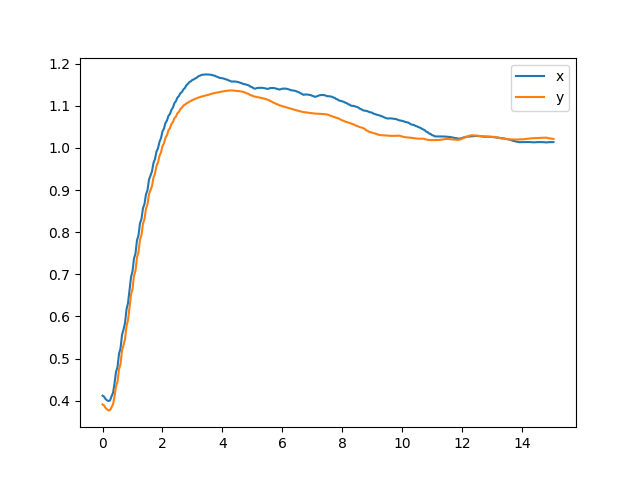
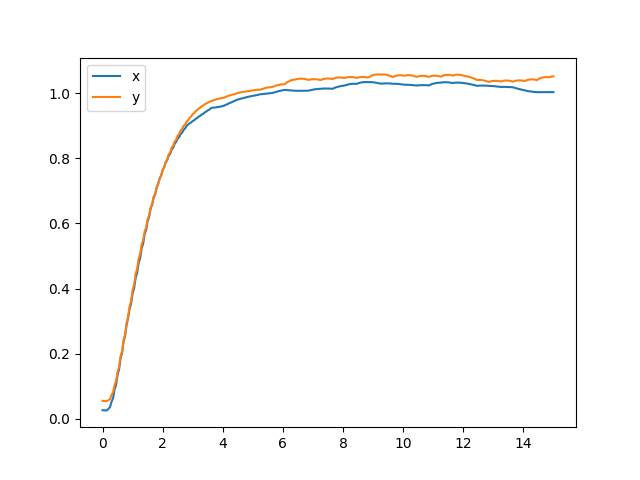
1122

diff --git a/offboard/src/offb_node_vel.py b/offboard/src/offb_node_vel.py
@@ -8,14 +8,22 @@
 
 import rospy
 import time
-from geometry_msgs.msg import PoseStamped
+from geometry_msgs.msg import PoseStamped, TwistStamped
 from mavros_msgs.msg import State, xyz
 from mavros_msgs.srv import CommandBool, CommandBoolRequest, SetMode, SetModeRequest
 from std_msgs.msg import Bool
 import matplotlib.pyplot as plt
+import numpy as np
+
+p = 3
+d = 1000
+ex = [0]
+ey = [0]
+ez = [2]
 
 current_state = State()
 cpose = PoseStamped()
+twist = TwistStamped()
 x = 0
 y = 0
 z = 2
@@ -39,6 +47,7 @@ if __name__ == "__main__":
     state_sub = rospy.Subscriber("mavros/state", State, callback = state_cb)
     cp_sub = rospy.Subscriber("/pp/checkpoint", xyz, callback = cp_cb)
     arrived_pub = rospy.Publisher("/pp/cp_arr", Bool, queue_size=1)
+    vel_pub = rospy.Publisher("mavros/setpoint_velocity/cmd_vel", TwistStamped, queue_size=1)
     local_pos_pub = rospy.Publisher("mavros/setpoint_position/local", PoseStamped, queue_size=10)
     local_pos_sub = rospy.Subscriber("/mavros/local_position/pose", PoseStamped, cxyz_cb)
     rospy.wait_for_service("/mavros/cmd/arming")
@@ -87,9 +96,9 @@ if __name__ == "__main__":
                 last_req = rospy.Time.now()
                 start = time.time()
                 traj = [[],[],[],[]]
-        pose.pose.position.x = x
-        pose.pose.position.y = y
-        pose.pose.position.z = z
+        pose.pose.position.x = 0
+        pose.pose.position.y = 0
+        pose.pose.position.z = 2
         local_pos_pub.publish(pose)
         x0 = cpose.pose.position.x
         y0 = cpose.pose.position.y
@@ -99,7 +108,31 @@ if __name__ == "__main__":
         traj[2].append(z0)
         traj[3].append(time.time()-start)
         dist = (x-x0)**2+(y-y0)**2+(z-z0)**2
-        if dist<0.01 : 
+        if dist < 0.1:
+            arrived_pub.publish(True)
+            break
+        rate.sleep()
+    start = time.time()
+    traj = [[],[],[],[]]
+    while(not rospy.is_shutdown()):
+        ex.append(x-x0)
+        ey.append(y-y0)
+        ez.append(z-z0)
+        twist.twist.linear.x = p*ex[-1]+d*0.05*(ex[-1]-ex[-2])
+        twist.twist.linear.y = p*ey[-1]+d*0.05*(ey[-1]-ey[-2])
+        twist.twist.linear.z = p/2*ez[-1]+d/5*0.05*(ez[-1]-ez[-2])
+        #print(twist.twist.linear.x, twist.twist.linear.y)
+        #local_pos_pub.publish(pose)
+        vel_pub.publish(twist)
+        x0 = cpose.pose.position.x
+        y0 = cpose.pose.position.y
+        z0 = cpose.pose.position.z
+        traj[0].append(x0)
+        traj[1].append(y0)
+        traj[2].append(z0)
+        traj[3].append(time.time()-start)
+        dist = np.sqrt(ex[-1]**2+ey[-1]**2)
+        if dist<0.1 : 
             arrived_pub.publish(True)
         rate.sleep()
         if time.time()-start > 180: break

diff --git a/offboard/src/planning.py b/offboard/src/planning.py
@@ -12,6 +12,7 @@ state = 0
 path = []
 s_start = (1, 1)
 s_goal = (45, 25)
+x0, y0 = (-1, -1)
 
 def add_obs_cb(msg):
     global state, path, s_start, s_goal, astar
@@ -20,8 +21,19 @@ def add_obs_cb(msg):
         astar = AStar(s_start, s_goal)
         astar.obs.add((msg.x, msg.y))
         path, visited = astar.searching()
-        print(path)
+        path = simplepath(path)
+        print('new path : ',path)
     else: astar.obs.add((msg.x, msg.y))
+
+def simplepath(path):
+    l = len(path)
+    od = 0
+    dpath = [(0, 0)]
+    for i in range(l-1):
+        dpath.append((path[i+1][0]-path[i][0],path[i+1][1]-path[i][1]))
+    for i in range(l-1):
+        if dpath[i] == dpath[i+1]: path[i] = path[i-1]
+    return path
 
 def main():
     global state, path, s_start, s_goal
@@ -36,16 +48,18 @@ def main():
     astar = AStar(s_start, s_goal)
     #plot = plotting.Plotting(s_start, s_goal)
     path, visited = astar.searching()
+    path = simplepath(path)
     print(path)
     rate = rospy.Rate(20)
     while(not rospy.is_shutdown()):
         try:
             if state:
                 x, y = path.pop()
-                print(x, y)
-                cp_pub.publish(x=x, y=y, z=z)
-                state = 0
-                time.sleep(2)
+                if (x, y) != (x0, y0):
+                    print(x, y)
+                    cp_pub.publish(x=x, y=y, z=z)
+                    state = 0
+                    time.sleep(0.1)
         except: 
             if goal_arr:
                 print("goal arrived")

diff --git a/offboard/src/test_vel.py b/offboard/src/test_vel.py
@@ -113,11 +113,13 @@ if __name__ == "__main__":
     d = 1000
     ex = [0]
     ey = [0]
+    ez = [0]
     while(not rospy.is_shutdown()):
         ex.append(x-x0)
         ey.append(y-y0)
+        ez.append(z-z0)
         twist.twist.linear.x = p*ex[-1]+d*0.05*(ex[-1]-ex[-2])
-        twist.twist.linear.y = p*ey[-1]+d*0.05*(ex[-1]-ex[-2])
+        twist.twist.linear.y = p*ey[-1]+d*0.05*(ey[-1]-ey[-2])
         print(twist.twist.linear.x, twist.twist.linear.y)
         vel_pub.publish(twist)
         x0 = cpose.pose.position.x
@@ -127,7 +129,7 @@ if __name__ == "__main__":
         traj[1].append(y0)
         traj[2].append(z0)
         traj[3].append(time.time()-start)
-        dist = (x-x0)**2+(y-y0)**2+(z-z0)**2
+        dist = ex[-1]**2+ey[-1]**2+ez[-1]**2
         if time.time()-start > 15: break
         rate.sleep()
     plt.plot(traj[3], traj[0], label='x')
